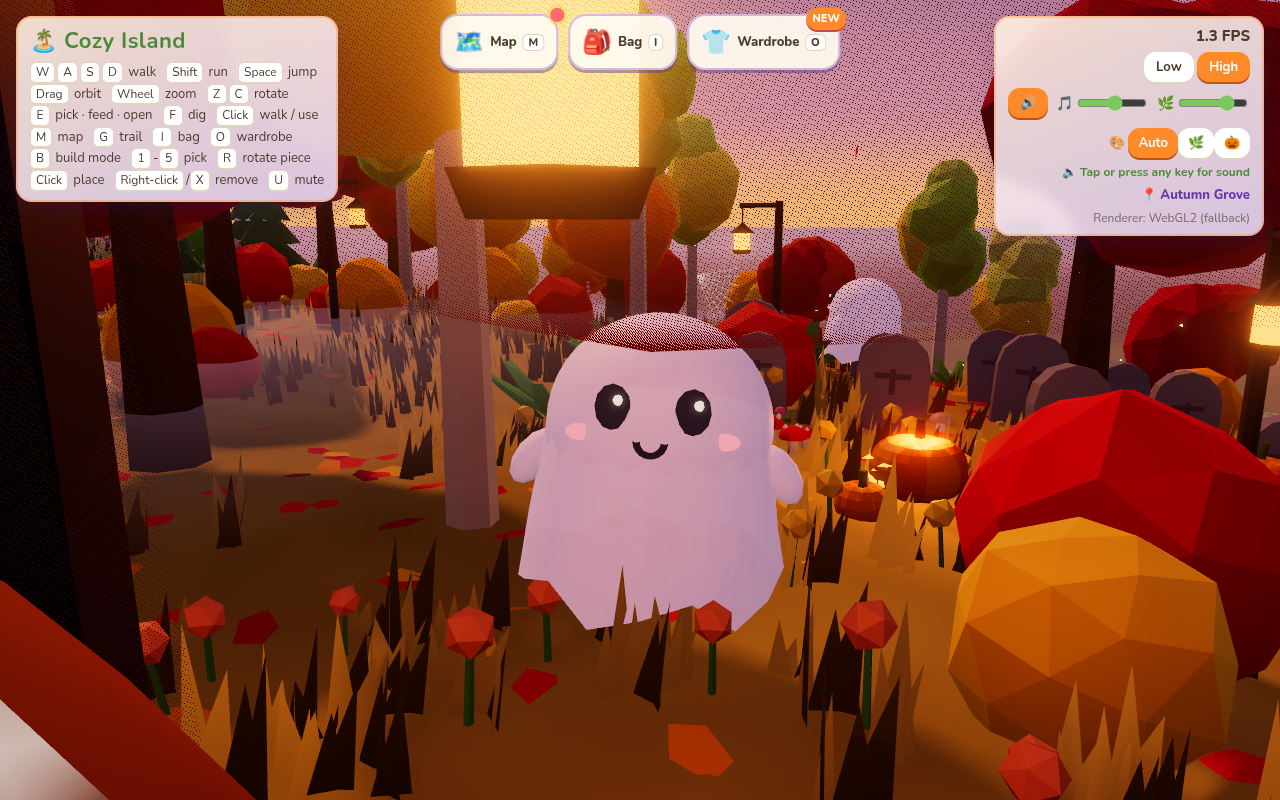
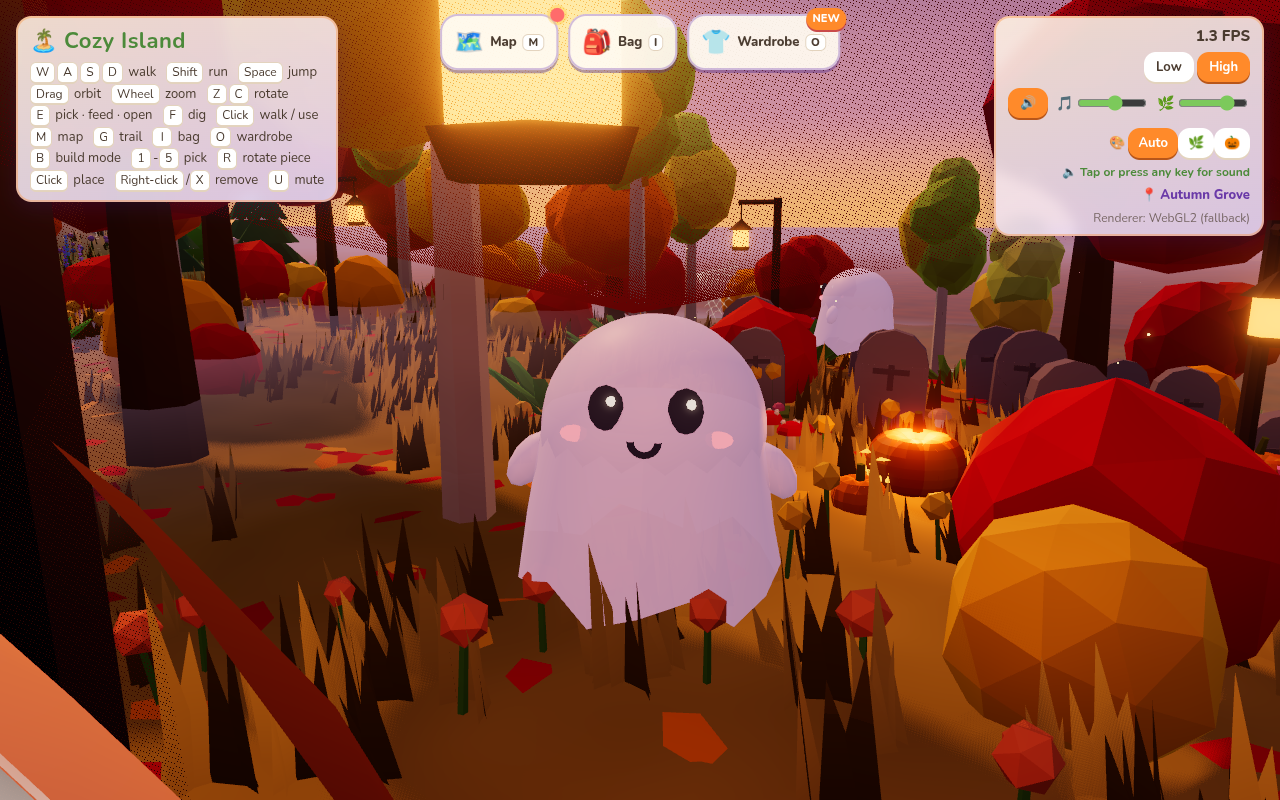
Theme docs

diff --git a/README.md b/README.md
@@ -128,3 +128,24 @@ An **👁 eye button** sits above the action button. Press it and drag anywhe
 - Names, meters, friendship and tricks are saved, and **your followers come back with you** when you reload.
 
 Test: `node tests/friend.mjs` (desktop + iPad). Screenshots: `screenshots/43-friend-pet.png`, `44-friend-clean.png`, `45-friend-feed.png`, `46-friend-levelup.png`, `47-ipad-friend.png`.
+
+## Seasonal themes (🎃 Halloween)
+`src/theme/theme.ts` follows the 2D game's naming: `Theme`, `THEMES`, `THEME_ORDER`, `theme`, `setTheme`, `themeEvents`.
+**Which theme is active:** `?theme=halloween|classic` > the saved setting (the 🎨 Auto / 🌿 / 🎃 buttons in the stats panel, key `cozyIsland.theme.v1`) > the date window (`window: { from: [10, 1], to: [11, 1] }`) > classic. `?date=YYYY-MM-DD` previews a date.
+A theme drives:
+- the post grade (`grade`)
+- the sky gradient, moon, stars, fog and sun/hemi light (`sky`, blended over the biome atmosphere and fading live)
+- the HUD skin (`ui` → CSS vars + `body.theme-<id>`)
+- the music mode (`music: 'spooky'` = D minor celesta + pizzicato) and ambience (owl hoots, wind)
+- the decorations (`dress` → `src/theme/Dress.ts`)
+- critters, collectibles (candy, seasonal wearables that only drop in season) and build pieces
+
+Halloween adds:
+- jack-o'-lanterns with flickering carved faces in the pumpkin patch, by trees and around spawn
+- hanging lanterns, cobwebs, a tiny graveyard, bats, light mist
+- 8 friendly ghosts that float, giggle and twirl when tapped. Stand beside one and press E (or tap it) to **trick-or-treat** for 🍬. At 8 candy a ghost swaps them for a Halloween wearable: Witch Hat, Pumpkin Head, Ghost Sheet, Cat Ears, Vampire Cape or Night Bat Wings.
+- build pieces: Jack-o'-Lantern and Spooky Lamp
+
+Perf: one InstancedMesh per decor kind. The glow is emissive with per-instance TSL flicker, and only 3 real point lights follow the nearest lanterns.
+
+**Adding a season:** add an id to `ThemeId`, a `Theme` record with a `window`, and an entry in `THEME_ORDER`. Then optionally add a `dress` builder in `Dress.ts` and `body.theme-<id>` CSS.
